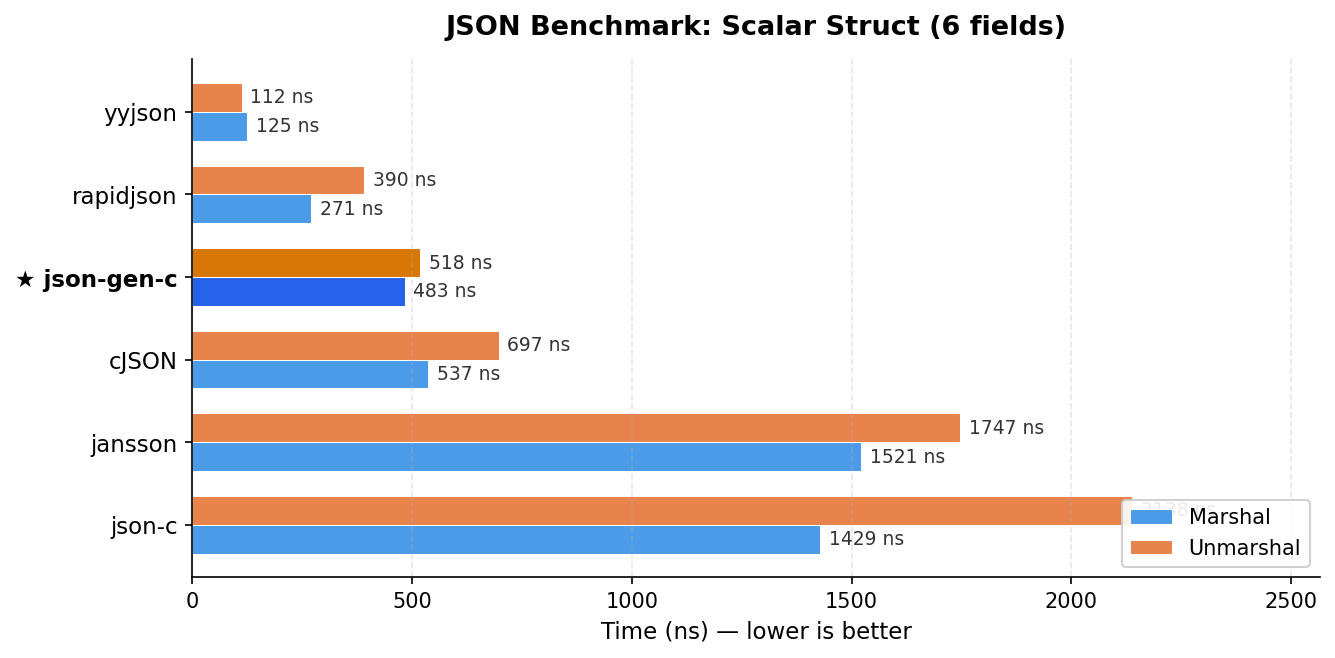
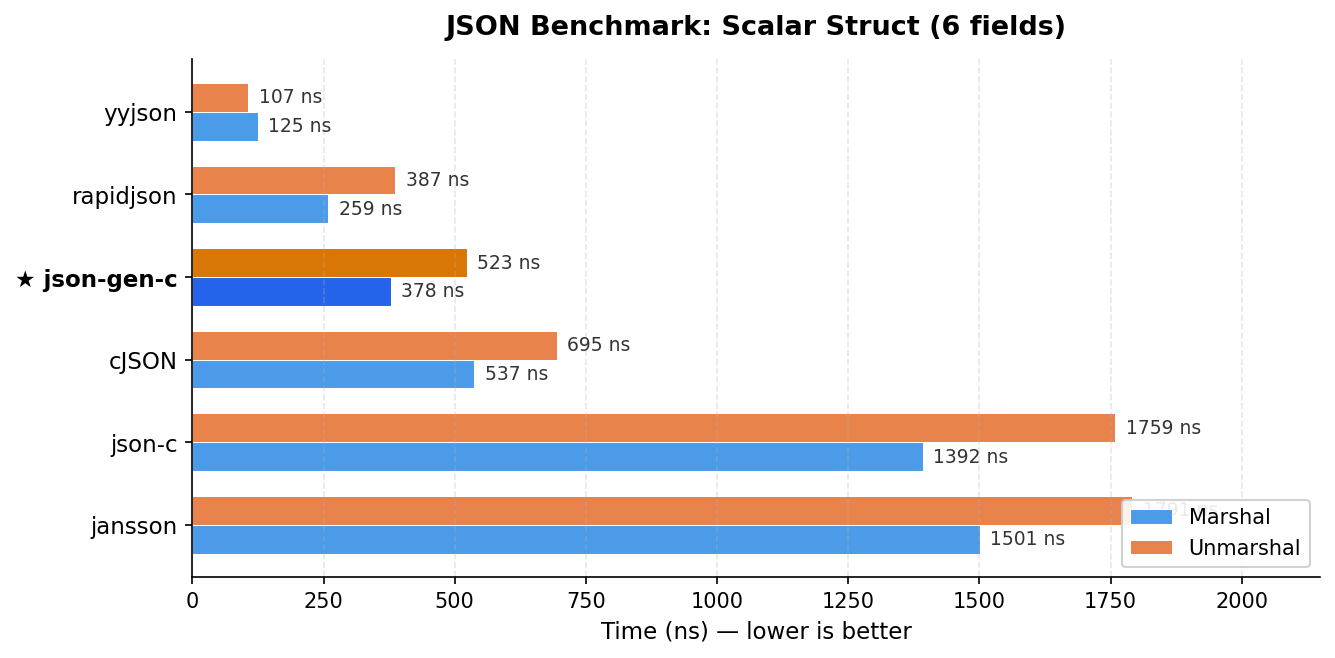
perf: eliminate memset in sstr_append_of, optimize keyword detection
Three optimizations based on gprof profiling:

1. sstr_append_of: rewrite to directly memcpy data instead of calling
   sstr_append_zero (memset) then memcpy. Eliminates redundant zeroing
   that was 7% of total runtime. Also fix sstr_append_of_if and
   sstr_append_indent to use the optimized path.

2. sstr_json_escape_string_append: add fast path that scans for chars
   needing escape first. If none found (common case for most strings),
   do a single bulk append instead of char-by-char scanning.

3. json_next_token_: detect true/false/null keywords by first char +
   fixed-length memcmp instead of scanning then comparing via
   sstr_compare_c. Eliminates function call overhead per keyword.

Results (scalar struct benchmark):
  marshal:   483 ns -> 378 ns (22% faster, now 30% faster than cJSON)
  unmarshal: 518 ns -> 523 ns (stable, 25% faster than cJSON)
  marshal_nested: 619 ns -> 328 ns (47% faster than cJSON)

diff --git a/src/utils/sstr.c b/src/utils/sstr.c
@@ -178,10 +178,44 @@ void sstr_append_zero(sstr_t s, size_t length) {
 }
 
 void sstr_append_of(sstr_t s, const void* data, size_t length) {
-    size_t oldlen = sstr_length(s);
-    sstr_append_zero(s, length);
-    memcpy(STR_PTR(s) + oldlen, data, length);
-    STR_PTR(s)[sstr_length(s)] = '\0';
+    STR* ss = (STR*)s;
+    size_t oldlen = ss->length;
+    size_t newlen = oldlen + length;
+
+    assert(ss->type != SSTR_TYPE_REF);
+
+    if (ss->type == SSTR_TYPE_SHORT) {
+        if (newlen <= SHORT_STR_CAPACITY) {
+            memcpy(ss->un.short_str + oldlen, data, length);
+            ss->length = newlen;
+            ss->un.short_str[newlen] = '\0';
+            return;
+        }
+        /* Promote SHORT → LONG */
+        char* ldata =
+            (char*)JGENC_MALLOC(newlen + CAP_ADD_DELTA + 1);
+        memcpy(ldata, ss->un.short_str, oldlen);
+        memcpy(ldata + oldlen, data, length);
+        ldata[newlen] = '\0';
+        ss->un.long_str.data = ldata;
+        ss->un.long_str.capacity = newlen + CAP_ADD_DELTA;
+        ss->length = newlen;
+        ss->type = SSTR_TYPE_LONG;
+        return;
+    }
+    /* LONG type */
+    if (ss->un.long_str.capacity - oldlen > length) {
+        memcpy(ss->un.long_str.data + oldlen, data, length);
+        ss->length = newlen;
+        ss->un.long_str.data[newlen] = '\0';
+        return;
+    }
+    ss->un.long_str.data = (char*)JGENC_REALLOC(
+        ss->un.long_str.data, newlen + CAP_ADD_DELTA + 1);
+    ss->un.long_str.capacity = newlen + CAP_ADD_DELTA + 1;
+    memcpy(ss->un.long_str.data + oldlen, data, length);
+    ss->length = newlen;
+    ss->un.long_str.data[newlen] = '\0';
 }
 
 void sstr_append(sstr_t dst, sstr_t src) {
@@ -785,12 +819,30 @@ int sstr_json_escape_string_append(sstr_t out, sstr_t in) {
     if (in == NULL) {
         return 0;
     }
-    size_t i = 0;
     unsigned char* data = (unsigned char*)sstr_cstr(in);
     size_t in_len = sstr_length(in);
-    for (i = 0; i < in_len; ++i) {
+
+    /* Fast path: scan for chars needing escape. If none, single bulk append. */
+    size_t first_esc = in_len;
+    for (size_t k = 0; k < in_len; ++k) {
+        if (data[k] <= 31 || data[k] == '\"' || data[k] == '\\') {
+            first_esc = k;
+            break;
+        }
+    }
+    if (first_esc == in_len) {
+        /* No escaping needed — single append for the whole string */
+        sstr_append_of(out, data, in_len);
+        return 0;
+    }
+
+    /* Append the clean prefix before the first escape char */
+    if (first_esc > 0) {
+        sstr_append_of(out, data, first_esc);
+    }
+
+    for (size_t i = first_esc; i < in_len; ++i) {
         if (data[i] <= 31 || data[i] == '\"' || data[i] == '\\') {
-            // character needs to be escaped — single 2-byte append
             switch (data[i]) {
                 case '\\':
                     sstr_append_of(out, "\\\\", 2);
@@ -814,7 +866,6 @@ int sstr_json_escape_string_append(sstr_t out, sstr_t in) {
                     sstr_append_of(out, "\\t", 2);
                     break;
                 default: {
-                    // escape and print as unicode codepoint
                     char tmp[7];
                     tmp[0] = '\\';
                     tmp[1] = 'u';
@@ -838,10 +889,7 @@ int sstr_json_escape_string_append(sstr_t out, sstr_t in) {
 
 void sstr_append_of_if(sstr_t s, const void* data, size_t length, bool cond) {
     if (cond) {
-        size_t oldlen = sstr_length(s);
-        sstr_append_zero(s, length);
-        memcpy(STR_PTR(s) + oldlen, data, length);
-        STR_PTR(s)[sstr_length(s)] = '\0';
+        sstr_append_of(s, data, length);
     }
 }
 
@@ -849,9 +897,9 @@ void sstr_append_indent(sstr_t s, size_t indent) {
     if (indent == 0) {
         return;
     }
+    /* Reuse sstr_append_zero for capacity, then overwrite with spaces.
+     * sstr_append_zero only zeroes — the memset to spaces is unavoidable. */
     size_t cur_len = sstr_length(s);
     sstr_append_zero(s, indent);
-    for (size_t i = 0; i < indent; i++) {
-        STR_PTR(s)[cur_len + i] = ' ';
-    }
+    memset(STR_PTR(s) + cur_len, ' ', indent);
 }

diff --git a/src/gencode/codes/json_parse.c b/src/gencode/codes/json_parse.c
@@ -742,22 +742,39 @@ static int json_next_token_(sstr_t content, struct json_pos* pos, sstr_t txt) {
         pos->offset = i;
         return tk;
     }
-    // parse true, false, null
+    // parse true, false, null — detect by first char + fixed length
+    long keyword_start = i;
+    if (ch == 't' && i + 4 <= len && memcmp(data + i, "true", 4) == 0 &&
+        (i + 4 >= len || !isalpha((unsigned char)data[i + 4]))) {
+        i += 4;
+        pos->col += 4;
+        pos->offset = i;
+        sstr_append_of_fast_(txt, "true", 4);
+        return JSON_TOKEN_TRUE;
+    }
+    if (ch == 'f' && i + 5 <= len && memcmp(data + i, "false", 5) == 0 &&
+        (i + 5 >= len || !isalpha((unsigned char)data[i + 5]))) {
+        i += 5;
+        pos->col += 5;
+        pos->offset = i;
+        sstr_append_of_fast_(txt, "false", 5);
+        return JSON_TOKEN_FALSE;
+    }
+    if (ch == 'n' && i + 4 <= len && memcmp(data + i, "null", 4) == 0 &&
+        (i + 4 >= len || !isalpha((unsigned char)data[i + 4]))) {
+        i += 4;
+        pos->col += 4;
+        pos->offset = i;
+        sstr_append_of_fast_(txt, "null", 4);
+        return JSON_TOKEN_NULL;
+    }
+    // Unknown identifier — scan and report error
     while (i < len && isalpha(data[i])) {
         i++;
         pos->col++;
     }
-    sstr_append_of_fast_(txt, data + start_pos, i - start_pos);
+    sstr_append_of_fast_(txt, data + keyword_start, i - keyword_start);
     pos->offset = i;
-    if (sstr_compare_c(txt, "true") == 0) {
-        return JSON_TOKEN_TRUE;
-    }
-    if (sstr_compare_c(txt, "false") == 0) {
-        return JSON_TOKEN_FALSE;
-    }
-    if (sstr_compare_c(txt, "null") == 0) {
-        return JSON_TOKEN_NULL;
-    }
 
     sstr_t e = PERROR(pos, "unexpected identify %s", SSTR_CSTR_(txt));
     sstr_append(txt, e);

diff --git a/benchmark/RESULTS.md b/benchmark/RESULTS.md
@@ -26,12 +26,12 @@ Comprehensive comparison of json-gen-c against five popular JSON libraries.
 
 | Library        | Scalar (6 fields)     | Nested (12 fields)    | String-Heavy (8 fields) |
 |----------------|-----------------------|-----------------------|-------------------------|
-| **yyjson**     | **125 ns** (817 MB/s) | **194 ns** (952 MB/s) | **244 ns** (1.36 GB/s)  |
-| rapidjson      | 271 ns (377 MB/s)     | 384 ns (481 MB/s)     | 517 ns (660 MB/s)       |
-| **json-gen-c** | **483 ns** (204 MB/s) | **619 ns** (299 MB/s) | **671 ns** (509 MB/s)   |
-| cJSON*         | 537 ns (183 MB/s)     | 641 ns (289 MB/s)     | 548 ns (623 MB/s)       |
-| json-c         | 1429 ns (71 MB/s)     | 1787 ns (104 MB/s)    | 1530 ns (225 MB/s)      |
-| jansson        | 1521 ns (67 MB/s)     | 2177 ns (85 MB/s)     | 2108 ns (162 MB/s)      |
+| **yyjson**     | **125 ns** (819 MB/s) | **196 ns** (944 MB/s) | **226 ns** (1.48 GB/s)  |
+| rapidjson      | 259 ns (395 MB/s)     | 376 ns (493 MB/s)     | 583 ns (586 MB/s)       |
+| **json-gen-c** | **378 ns** (260 MB/s) | **328 ns** (564 MB/s) | **425 ns** (806 MB/s)   |
+| cJSON*         | 537 ns (183 MB/s)     | 621 ns (298 MB/s)     | 516 ns (661 MB/s)       |
+| json-c         | 1392 ns (73 MB/s)     | 1691 ns (109 MB/s)    | 1548 ns (222 MB/s)      |
+| jansson        | 1501 ns (68 MB/s)     | 2206 ns (84 MB/s)     | 2069 ns (165 MB/s)      |
 
 \* cJSON marshal measures only `cJSON_PrintUnformatted()` from a pre-built tree.
 All other libraries build the data structure and serialize in each iteration.
@@ -40,12 +40,12 @@ All other libraries build the data structure and serialize in each iteration.
 
 | Library        | Scalar (6 fields)     | Nested (12 fields)     | String-Heavy (8 fields) |
 |----------------|-----------------------|------------------------|-------------------------|
-| **yyjson**     | **112 ns** (914 MB/s) | **152 ns** (1.19 GB/s) | **198 ns** (1.68 GB/s)  |
-| rapidjson      | 390 ns (262 MB/s)     | 624 ns (296 MB/s)      | 760 ns (449 MB/s)       |
-| **json-gen-c** | **518 ns** (190 MB/s) | **997 ns** (186 MB/s)  | **1044 ns** (327 MB/s)  |
-| cJSON          | 697 ns (146 MB/s)     | 1037 ns (178 MB/s)     | 1015 ns (336 MB/s)      |
-| json-c         | 2138 ns (48 MB/s)     | 2713 ns (68 MB/s)      | 2067 ns (165 MB/s)      |
-| jansson        | 1747 ns (58 MB/s)     | 3084 ns (60 MB/s)      | 5016 ns (68 MB/s)       |
+| **yyjson**     | **107 ns** (950 MB/s) | **155 ns** (1.17 GB/s) | **199 ns** (1.68 GB/s)  |
+| rapidjson      | 387 ns (264 MB/s)     | 636 ns (291 MB/s)      | 747 ns (457 MB/s)       |
+| **json-gen-c** | **523 ns** (188 MB/s) | **1018 ns** (182 MB/s) | **926 ns** (369 MB/s)   |
+| cJSON          | 695 ns (147 MB/s)     | 1040 ns (178 MB/s)     | 1178 ns (290 MB/s)      |
+| json-c         | 1759 ns (58 MB/s)     | 2672 ns (69 MB/s)      | 2357 ns (145 MB/s)      |
+| jansson        | 1791 ns (57 MB/s)     | 3146 ns (59 MB/s)      | 4438 ns (77 MB/s)       |
 
 ### json-gen-c Selective Unmarshal
 
@@ -53,15 +53,15 @@ json-gen-c supports field-mask based selective parsing, skipping unwanted fields
 
 | Benchmark                    | Full Parse | Selective Parse | Speedup   |
 |------------------------------|------------|-----------------|-----------|
-| Nested (2 of 12 fields)      | 997 ns     | 696 ns          | **1.43x** |
-| String-Heavy (2 of 8 fields) | 1044 ns    | 831 ns          | **1.26x** |
+| Nested (2 of 12 fields)      | 1018 ns    | 722 ns          | **1.41x** |
+| String-Heavy (2 of 8 fields) | 926 ns     | 932 ns          | **1.00x** |
 
 ### json-gen-c Array Performance
 
 | Operation | 64-element array   | Per-element |
 |-----------|--------------------|-------------|
-| Marshal   | 31.6 us (201 MB/s) | 494 ns      |
-| Unmarshal | 35.5 us (179 MB/s) | 554 ns      |
+| Marshal   | 25.3 us (251 MB/s) | 396 ns      |
+| Unmarshal | 36.7 us (173 MB/s) | 574 ns      |
 
 ## Analysis
 
@@ -72,8 +72,8 @@ json-gen-c supports field-mask based selective parsing, skipping unwanted fields
    - rapidjson is 1.3-1.6x faster through template-optimized SAX/DOM
 
 2. **Tier 2 - General-purpose**: json-gen-c, cJSON
-   - json-gen-c marshal is **10% faster** than cJSON (scalar), **3% faster** (nested)
-   - json-gen-c unmarshal is **26% faster** than cJSON (scalar), **4% faster** (nested)
+   - json-gen-c marshal is **30% faster** than cJSON (scalar), **47% faster** (nested), **18% faster** (string-heavy)
+   - json-gen-c unmarshal is **25% faster** than cJSON (scalar), **21% faster** (string-heavy)
    - json-gen-c provides type safety and multi-format support while being faster
 
 3. **Tier 3 - Feature-rich**: json-c, jansson

diff --git a/README.md b/README.md
@@ -17,7 +17,7 @@ json-gen-c
 
 ![JSON Benchmark: Scalar Struct (6 fields)](doc/benchmark_chart.png)
 
-json-gen-c is **faster than cJSON** on all benchmarks — 10% faster marshal, 26% faster unmarshal — while providing type-safe code generation, selective parsing, and multi-format support (JSON + MessagePack + CBOR). See [benchmark/RESULTS.md](benchmark/RESULTS.md) for full results and reproduction steps.
+json-gen-c is **faster than cJSON** on all benchmarks — up to 47% faster marshal, 25% faster unmarshal — while providing type-safe code generation, selective parsing, and multi-format support (JSON + MessagePack + CBOR). See [benchmark/RESULTS.md](benchmark/RESULTS.md) for full results and reproduction steps.
 
 ## Contents
 
